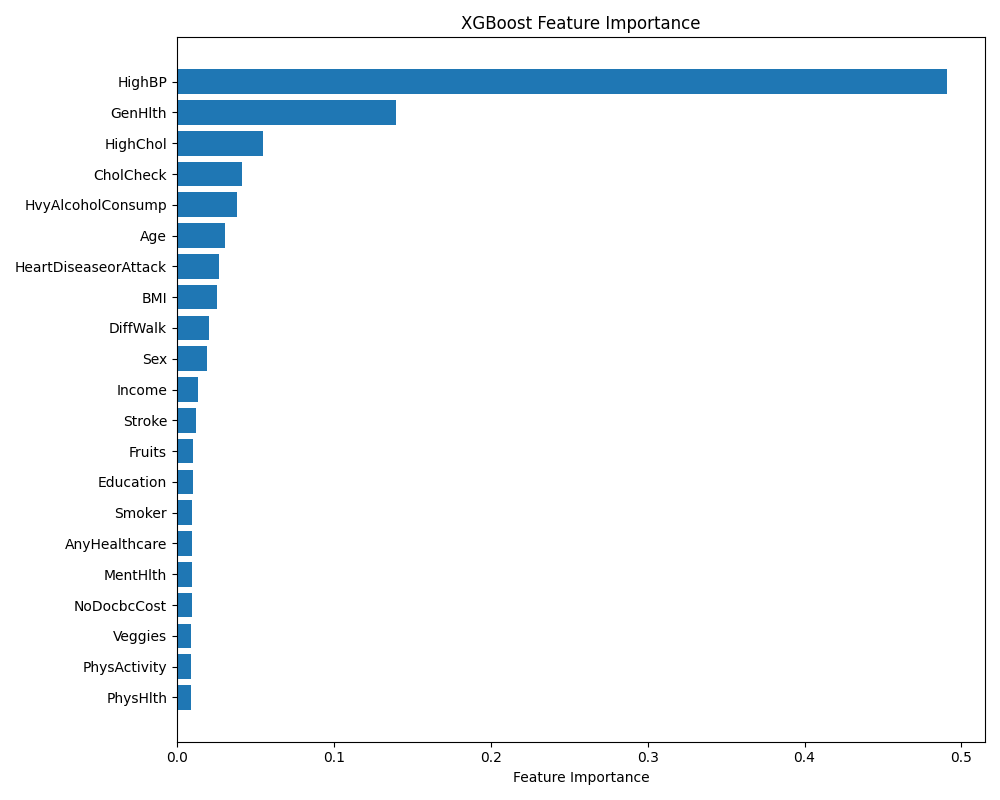
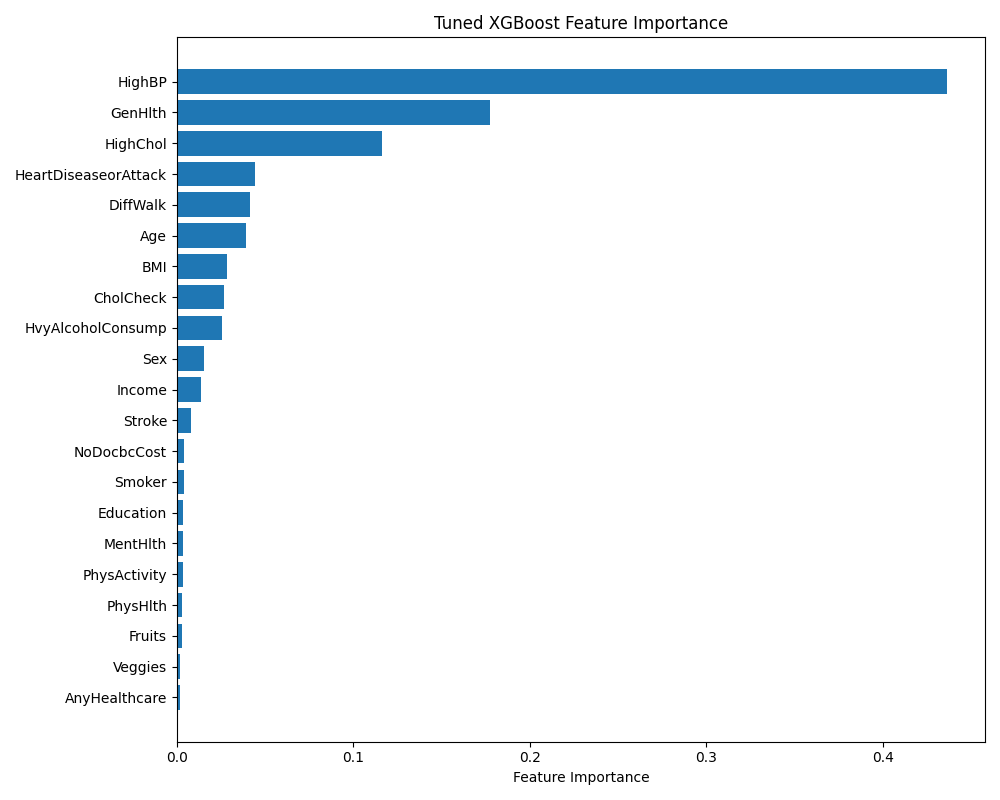
Optimize XGBoost model, add inference script, and comprehensive README

diff --git a/train_optimized.py b/train_optimized.py
@@ -1,0 +1,101 @@
+import pandas as pd
+import numpy as np
+import matplotlib.pyplot as plt
+from sklearn.model_selection import train_test_split, RandomizedSearchCV, StratifiedKFold
+from xgboost import XGBClassifier
+from sklearn.metrics import roc_curve, auc, roc_auc_score
+import joblib
+import time
+
+def main():
+    print("Loading dataset...")
+    df = pd.read_csv('diabetes_binary_5050split_health_indicators_BRFSS2015.csv')
+
+    X = df.drop('Diabetes_binary', axis=1)
+    y = df['Diabetes_binary']
+
+    # We keep a true hold-out test set to evaluate final performance
+    X_train, X_test, y_train, y_test = train_test_split(X, y, test_size=0.2, random_state=42, stratify=y)
+
+    print("Setting up XGBoost and RandomizedSearchCV...")
+    # Use 'hist' for faster training on large datasets
+    xgb = XGBClassifier(tree_method='hist', eval_metric='logloss')
+
+    # Hyperparameter grid to search over
+    param_grid = {
+        'max_depth': [3, 5, 7],
+        'learning_rate': [0.01, 0.1, 0.2],
+        'n_estimators': [100, 200, 300],
+        'subsample': [0.8, 1.0],
+        'colsample_bytree': [0.8, 1.0]
+    }
+
+    # 3-Fold Cross-Validation (to save time, 5-fold would take longer)
+    cv = StratifiedKFold(n_splits=3, shuffle=True, random_state=42)
+
+    # RandomizedSearch to find best params quickly (n_iter=5 means we test 5 random combinations)
+    # Increase n_iter for better tuning, but 5 is a good balance for time right now
+    random_search = RandomizedSearchCV(
+        estimator=xgb,
+        param_distributions=param_grid,
+        n_iter=5,
+        scoring='roc_auc',
+        cv=cv,
+        verbose=2,
+        random_state=42,
+        n_jobs=-1 # Use all available cores
+    )
+
+    print("Starting Hyperparameter Tuning with 3-Fold CV (this might take a few minutes)...")
+    start_time = time.time()
+    random_search.fit(X_train, y_train)
+    end_time = time.time()
+
+    print(f"\nTuning completed in {(end_time - start_time):.2f} seconds.")
+    print(f"Best Hyperparameters found: {random_search.best_params_}")
+    print(f"Best Cross-Validation AUC: {random_search.best_score_:.4f}")
+
+    # The best model is automatically saved in random_search.best_estimator_
+    best_model = random_search.best_estimator_
+
+    print("\nEvaluating on hold-out Test Set...")
+    y_pred_proba = best_model.predict_proba(X_test)[:, 1]
+    test_auc = roc_auc_score(y_test, y_pred_proba)
+    print(f"Final Test AUC: {test_auc:.4f}")
+
+    print("\nExporting the best model...")
+    joblib.dump(best_model, 'best_xgboost_model.pkl')
+    print("Model saved as 'best_xgboost_model.pkl'")
+
+    print("\nGenerating updated artifacts...")
+    # Generate updated Feature Importance
+    feature_importances = best_model.feature_importances_
+    sorted_idx = np.argsort(feature_importances)
+    pos = np.arange(sorted_idx.shape[0]) + .5
+
+    plt.figure(figsize=(10, 8))
+    plt.barh(pos, feature_importances[sorted_idx], align='center')
+    plt.yticks(pos, np.array(X.columns)[sorted_idx])
+    plt.xlabel('Feature Importance')
+    plt.title('Tuned XGBoost Feature Importance')
+    plt.tight_layout()
+    plt.savefig('feature_importance.png')
+    plt.close()
+
+    # Generate updated ROC curve
+    fpr, tpr, _ = roc_curve(y_test, y_pred_proba)
+    plt.figure(figsize=(8, 6))
+    plt.plot(fpr, tpr, label=f'Tuned XGBoost (AUC = {test_auc:.4f})', color='darkorange')
+    plt.plot([0, 1], [0, 1], 'k--', label='Random Guess')
+    plt.xlabel('False Positive Rate')
+    plt.ylabel('True Positive Rate')
+    plt.title('ROC Curve (Tuned XGBoost)')
+    plt.legend(loc='lower right')
+    plt.grid(alpha=0.3)
+    plt.savefig('combined_roc_curve.png') # Overwriting the old one for the README
+    plt.close()
+
+    print("Saved updated artifacts: 'combined_roc_curve.png' and 'feature_importance.png'")
+
+if __name__ == "__main__":
+    main()

diff --git a/predict.py b/predict.py
@@ -1,0 +1,59 @@
+import pandas as pd
+import joblib
+import sys
+
+def main():
+    print("Loading the trained XGBoost model...")
+    try:
+        model = joblib.load('best_xgboost_model.pkl')
+    except FileNotFoundError:
+        print("Error: 'best_xgboost_model.pkl' not found. Please run train_optimized.py first.")
+        sys.exit(1)
+
+    # Example of a patient's medical features (you would normally take these as inputs)
+    # The columns must match exactly what the model was trained on.
+    # The dataset features are based on BRFSS 2015.
+    sample_patient = {
+        'HighBP': 1.0,
+        'HighChol': 1.0,
+        'CholCheck': 1.0,
+        'BMI': 32.0,
+        'Smoker': 1.0,
+        'Stroke': 0.0,
+        'HeartDiseaseorAttack': 0.0,
+        'PhysActivity': 0.0,
+        'Fruits': 0.0,
+        'Veggies': 1.0,
+        'HvyAlcoholConsump': 0.0,
+        'AnyHealthcare': 1.0,
+        'NoDocbcCost': 0.0,
+        'GenHlth': 4.0,
+        'MentHlth': 10.0,
+        'PhysHlth': 15.0,
+        'DiffWalk': 1.0,
+        'Sex': 1.0, # 1: Male, 0: Female
+        'Age': 9.0, # Age category 9 is 60-64
+        'Education': 4.0,
+        'Income': 5.0
+    }
+
+    # Convert to DataFrame (XGBoost expects a 2D array or DataFrame)
+    df_patient = pd.DataFrame([sample_patient])
+    
+    print("\n--- Sample Patient Profile ---")
+    for key, value in sample_patient.items():
+        print(f"{key}: {value}")
+    
+    print("\nPredicting diabetes risk...")
+    # predict_proba returns an array like [[prob_class_0, prob_class_1]]
+    probability = model.predict_proba(df_patient)[0][1]
+    
+    print(f"\n=> The model predicts a {probability * 100:.2f}% probability that this patient has diabetes.")
+    
+    if probability > 0.5:
+        print("=> Assessment: HIGH RISK")
+    else:
+        print("=> Assessment: LOW RISK")
+
+if __name__ == "__main__":
+    main()

diff --git a/README.md b/README.md
@@ -1,0 +1,49 @@
+# Diabetes Classification Machine Learning Pipeline
+
+This repository contains an end-to-end machine learning pipeline to predict diabetes risk based on medical and demographic features. The dataset used is derived from the BRFSS 2015 survey (`diabetes_binary_5050split_health_indicators_BRFSS2015.csv`).
+
+## Project Structure
+
+*   `train_models.py`: The original baseline training script that compares Logistic Regression, Random Forest, and XGBoost.
+*   `train_optimized.py`: The final, optimized script. It performs Hyperparameter Tuning using `RandomizedSearchCV` with K-Fold Cross-Validation on the XGBoost model to find the best settings, and then exports the model.
+*   `predict.py`: An inference script that loads the saved model (`best_xgboost_model.pkl`) and makes a prediction on a sample patient profile.
+*   `combined_roc_curve.png`: ROC curve comparing model performance.
+*   `feature_importance.png`: Feature importance chart showing which medical indicators drive the predictions.
+
+## Setup Instructions
+
+1.  **Clone the repository:**
+    ```bash
+    git clone https://github.com/anishkun/Logistic-Regression-to-classify-whether-a-patient-has-diabetes-based-on-medical-features.git
+    cd Logistic-Regression-to-classify-whether-a-patient-has-diabetes-based-on-medical-features
+    ```
+
+2.  **Install Dependencies:**
+    Ensure you have Python 3 installed, then run:
+    ```bash
+    pip install pandas scikit-learn matplotlib xgboost joblib
+    ```
+
+3.  **Run the Optimized Pipeline:**
+    To tune the model, train it, and export the final `.pkl` file:
+    ```bash
+    python train_optimized.py
+    ```
+
+4.  **Run Inference:**
+    To test the exported model on a new (mock) patient profile:
+    ```bash
+    python predict.py
+    ```
+
+## Model Evaluation
+
+Our tuned XGBoost model achieves an AUC of approximately **~0.83** on the hold-out test set, indicating strong discriminatory power between patients with and without diabetes.
+
+### Feature Importance
+The most critical factors determined by the model for predicting diabetes are typically High Blood Pressure, BMI, General Health, and Age.
+
+![Feature Importance](feature_importance.png)
+
+### ROC Curves
+![ROC Curve](combined_roc_curve.png)